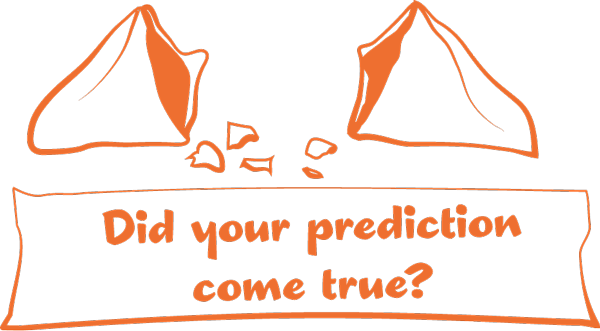
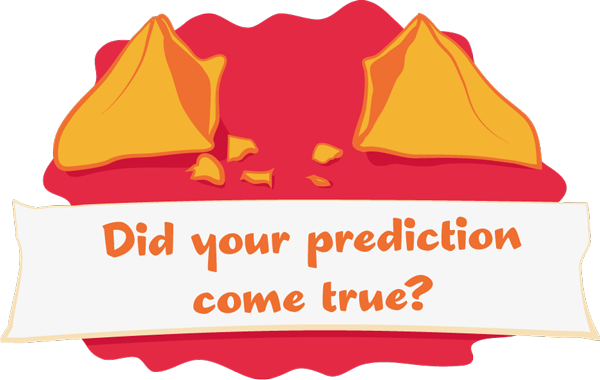
finalized design

diff --git a/app/assets/stylesheets/application.css b/app/assets/stylesheets/application.css
@@ -19,25 +19,33 @@ body{
 }
 
 .background{
-  background:url('fortune.png') no-repeat -30px 170px #E52D2D;
-  width:100%;
-  height:100%;
-  min-height:850px;
-}
+width: 100%;
+height: 100%;
+min-height: 850px;}
+
 .background2{
-  background:url('fortune2.png') no-repeat -30px 80px #E52D2D;
+/*  background:url('fortune4.png') no-repeat -30px 80px;
   width:100%;
   height:100%;
-  min-height:850px;
+  min-height:850px;*/
 }
 
 .container{
-width: 600px;
-max-width: 1100px;
-margin-left:550px;
-padding-top: 110px;
+width: 660px;
+padding-top: 140px;
+background: url('fortune3.png') no-repeat -3px 202px;
+min-height: 800px;
+padding: 140px 0 0 370px;
+margin: 0 auto;
 }
-.container2{}
+.container2{
+  width: 660px;
+padding-top: 140px;
+background: url('fortune4.png') no-repeat -3px 202px;
+min-height: 800px;
+padding: 140px 0 0 370px;
+margin: 0 auto;
+}
 
 .showstuff{
   display:none;
@@ -53,6 +61,7 @@ border-radius: 9px;
 font-family: 'Raleway', sans-serif;
 width: 192px;
 text-align:center;
+font-weight:bold;
 }
 .btn.btn-warning a{
   text-decoration:none;
@@ -64,9 +73,14 @@ text-align:center;
 } 
 
 .show.btn.btn-warning{
-  position: relative;
-top: 460px;
-left: 750px;
+position: relative;
+top: 380px;
+left: 150px;
+width: 192px;
+display: block;
+text-decoration: none;
+color: #fff;
+font-weight: bold;
 }
 
 
@@ -82,7 +96,9 @@ font-weight:bold;
 
 form{
 margin-left: 50px;
-margin-top: 20px;}
+padding-top: 21px;
+float: left;
+}
 
 .field{
   float: left;
@@ -91,13 +107,13 @@ margin-right: 30px;
 
 .actions{
   float: left;
-margin-left: 20px;
-margin-top: 15px;
+margin-left: 152px;
+margin-top: 43px;
 
 }
 
 #prediction_prediction{
-  width:270px;
+  height:89px;
 }
 
 label{
@@ -107,4 +123,11 @@ font-size:17px;
 input{
   border:1px solid #f49930;
   background-color:#f49930;
+  margin-bottom:16px;
+  color:#fff;
+}
+
+textarea{
+  background-color: #f49930;
+color: #fff;
 }

diff --git a/app/assets/stylesheets/scaffolds.css.scss b/app/assets/stylesheets/scaffolds.css.scss
@@ -1,8 +1,8 @@
 @import url(http://fonts.googleapis.com/css?family=Wendy+One|Raleway:200,700,800,400);
 
 body {
-  background-color: #E52D2D;
-  color: #fff;
+  background-color: #E32D44;
+  color: #E32D45;
   font-family: 'Raleway', sans-serif;
   font-size: 13px;
   line-height: 18px;
